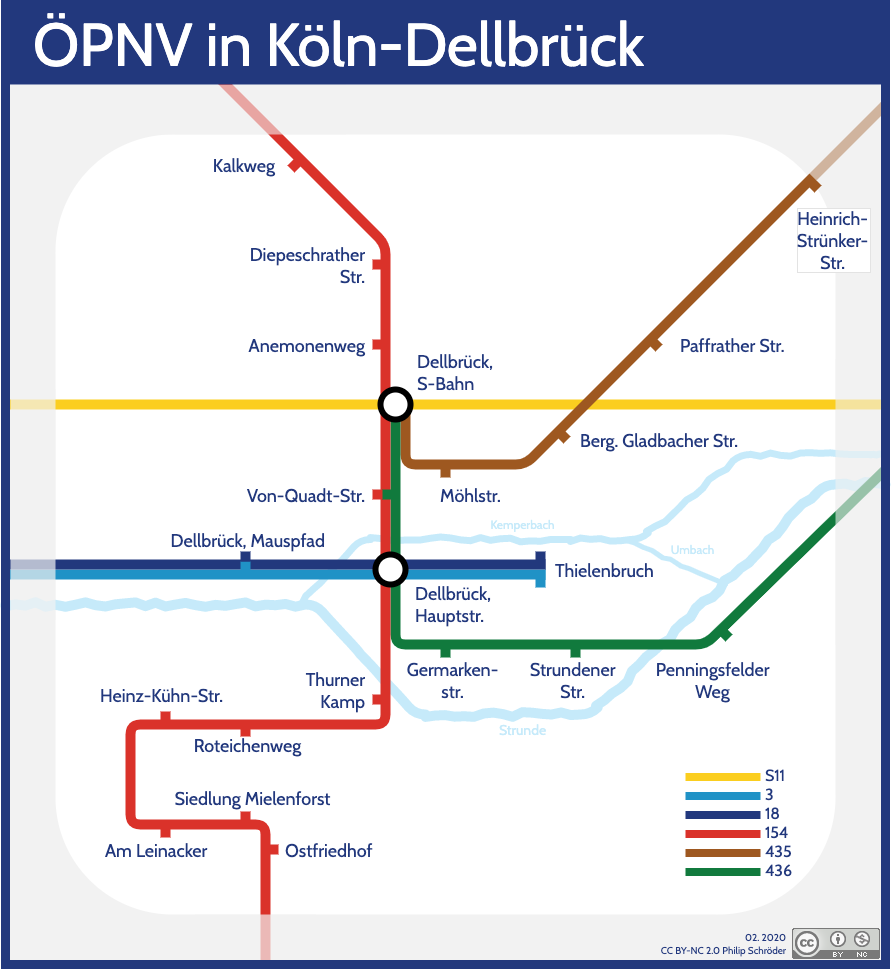
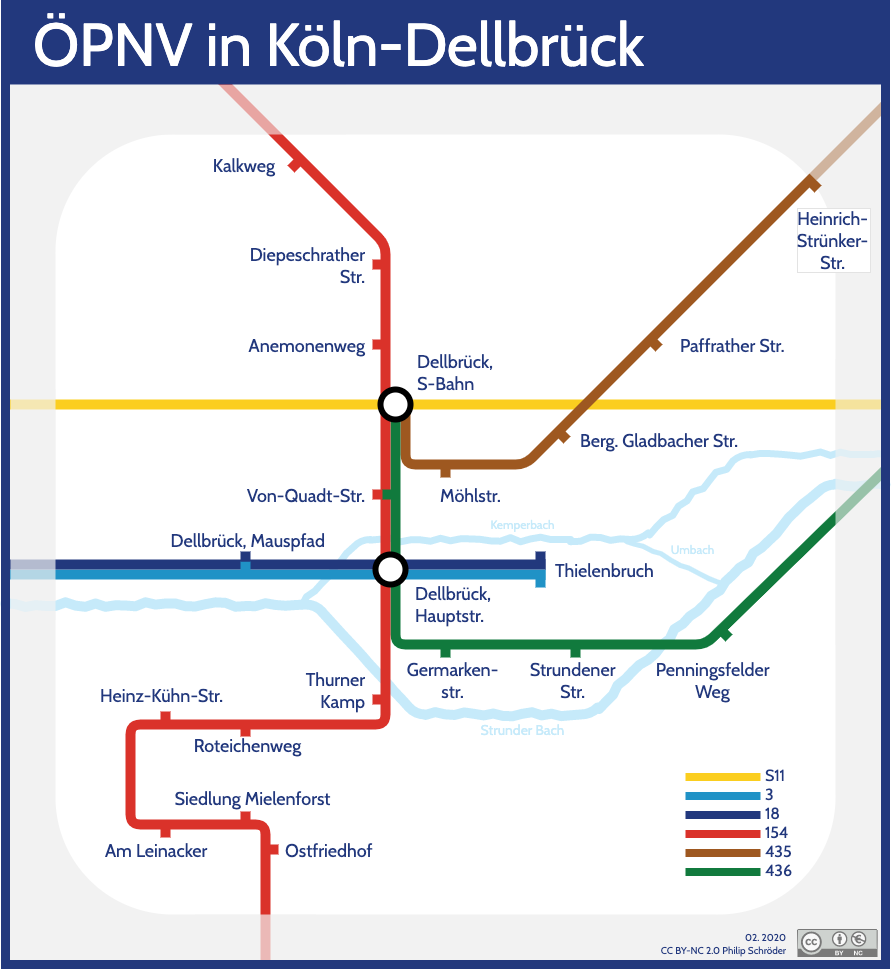
use cc svg file Update DellTube.drawio Added DellTube.png

diff --git a/Readme.md b/Readme.md
@@ -34,12 +34,22 @@ Als Schriftart wird Cabin verwendet, welche als freie Schriftart an die original
 
 Eine Weiternutzung ist unter Beachtung der [Creative-Commons-Lizenz by-nc](https://creativecommons.org/licenses/by-nc/4.0/deed.de) möglich.
 
+![](https://mirrors.creativecommons.org/presskit/buttons/88x31/svg/by-nc.eu.svg)
+
 
 
 ## Links
 
 - https://www.draw.io/
+
 - https://tfl.gov.uk/maps/track/tube
+
   - [Colour standard, pdf 226kb]( https://tfl.gov.uk/cdn/static/cms/documents/tfl-colour-standards-issue04.pdf)
+
 - http://www.xn--pnvkarte-m4a.de/#7.0746;50.9736;15
+
 - https://fonts.google.com/specimen/Cabin
+
+- https://creativecommons.org/about/downloads/
+
+  
